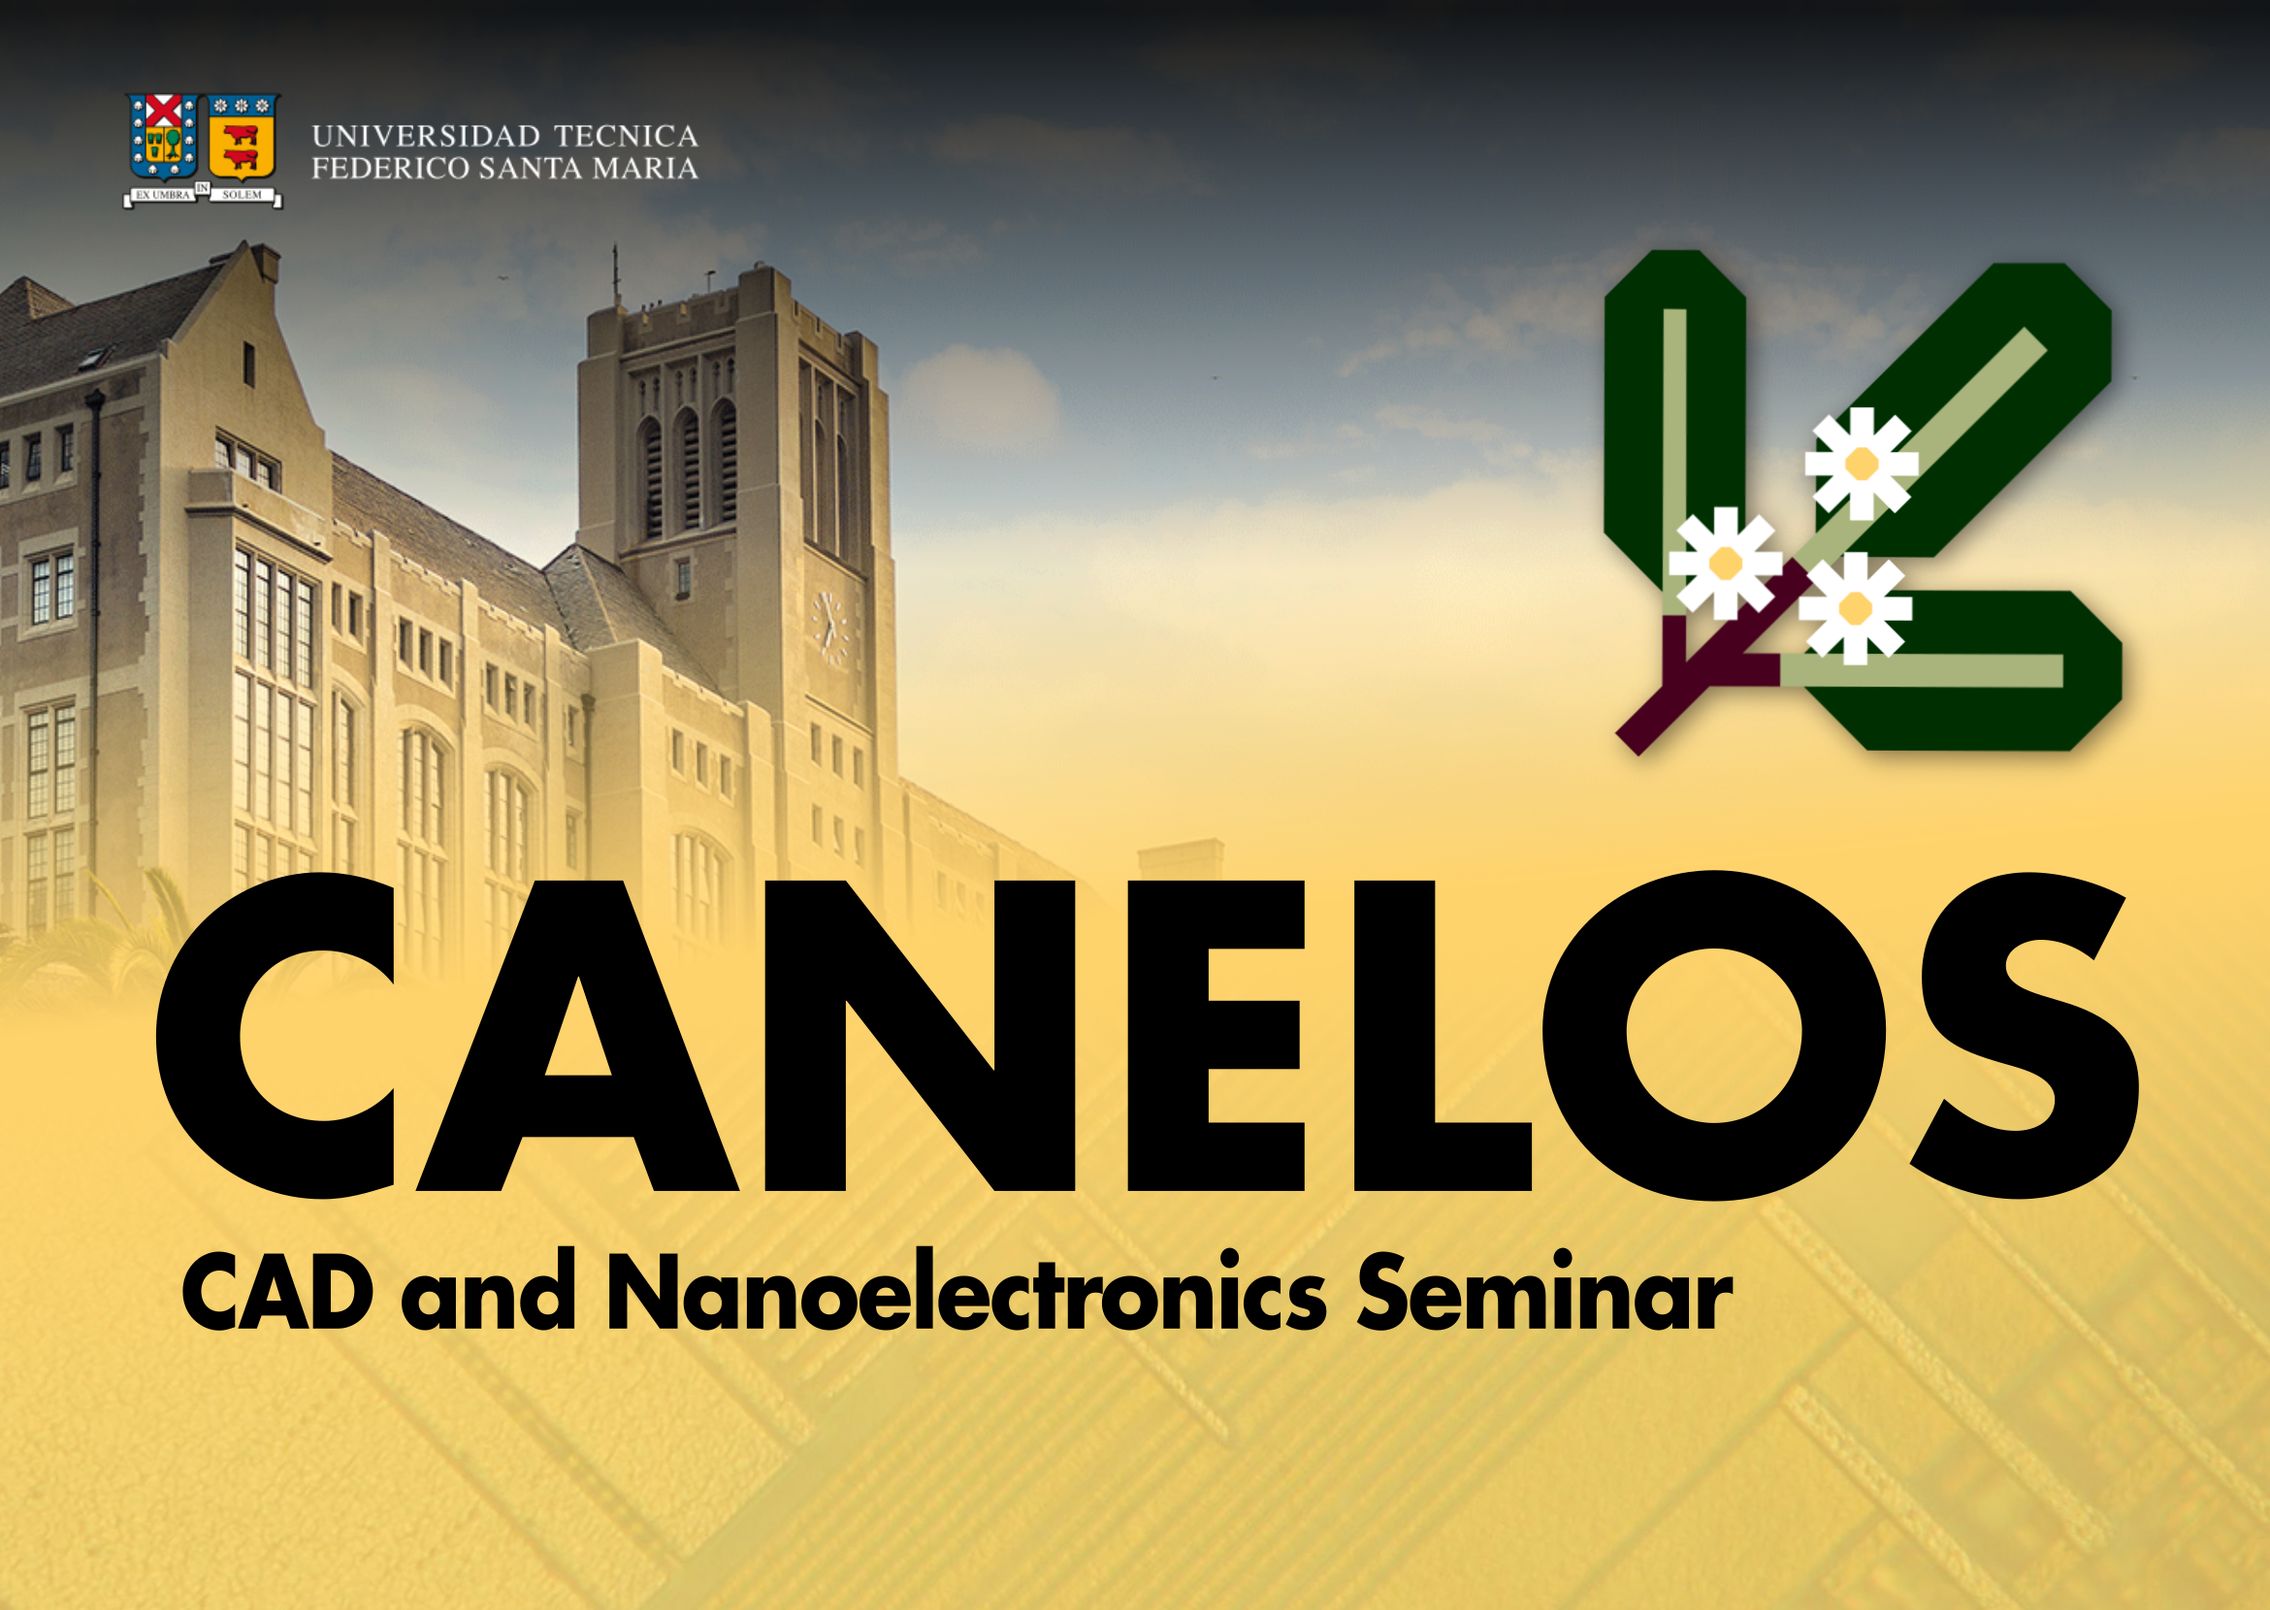
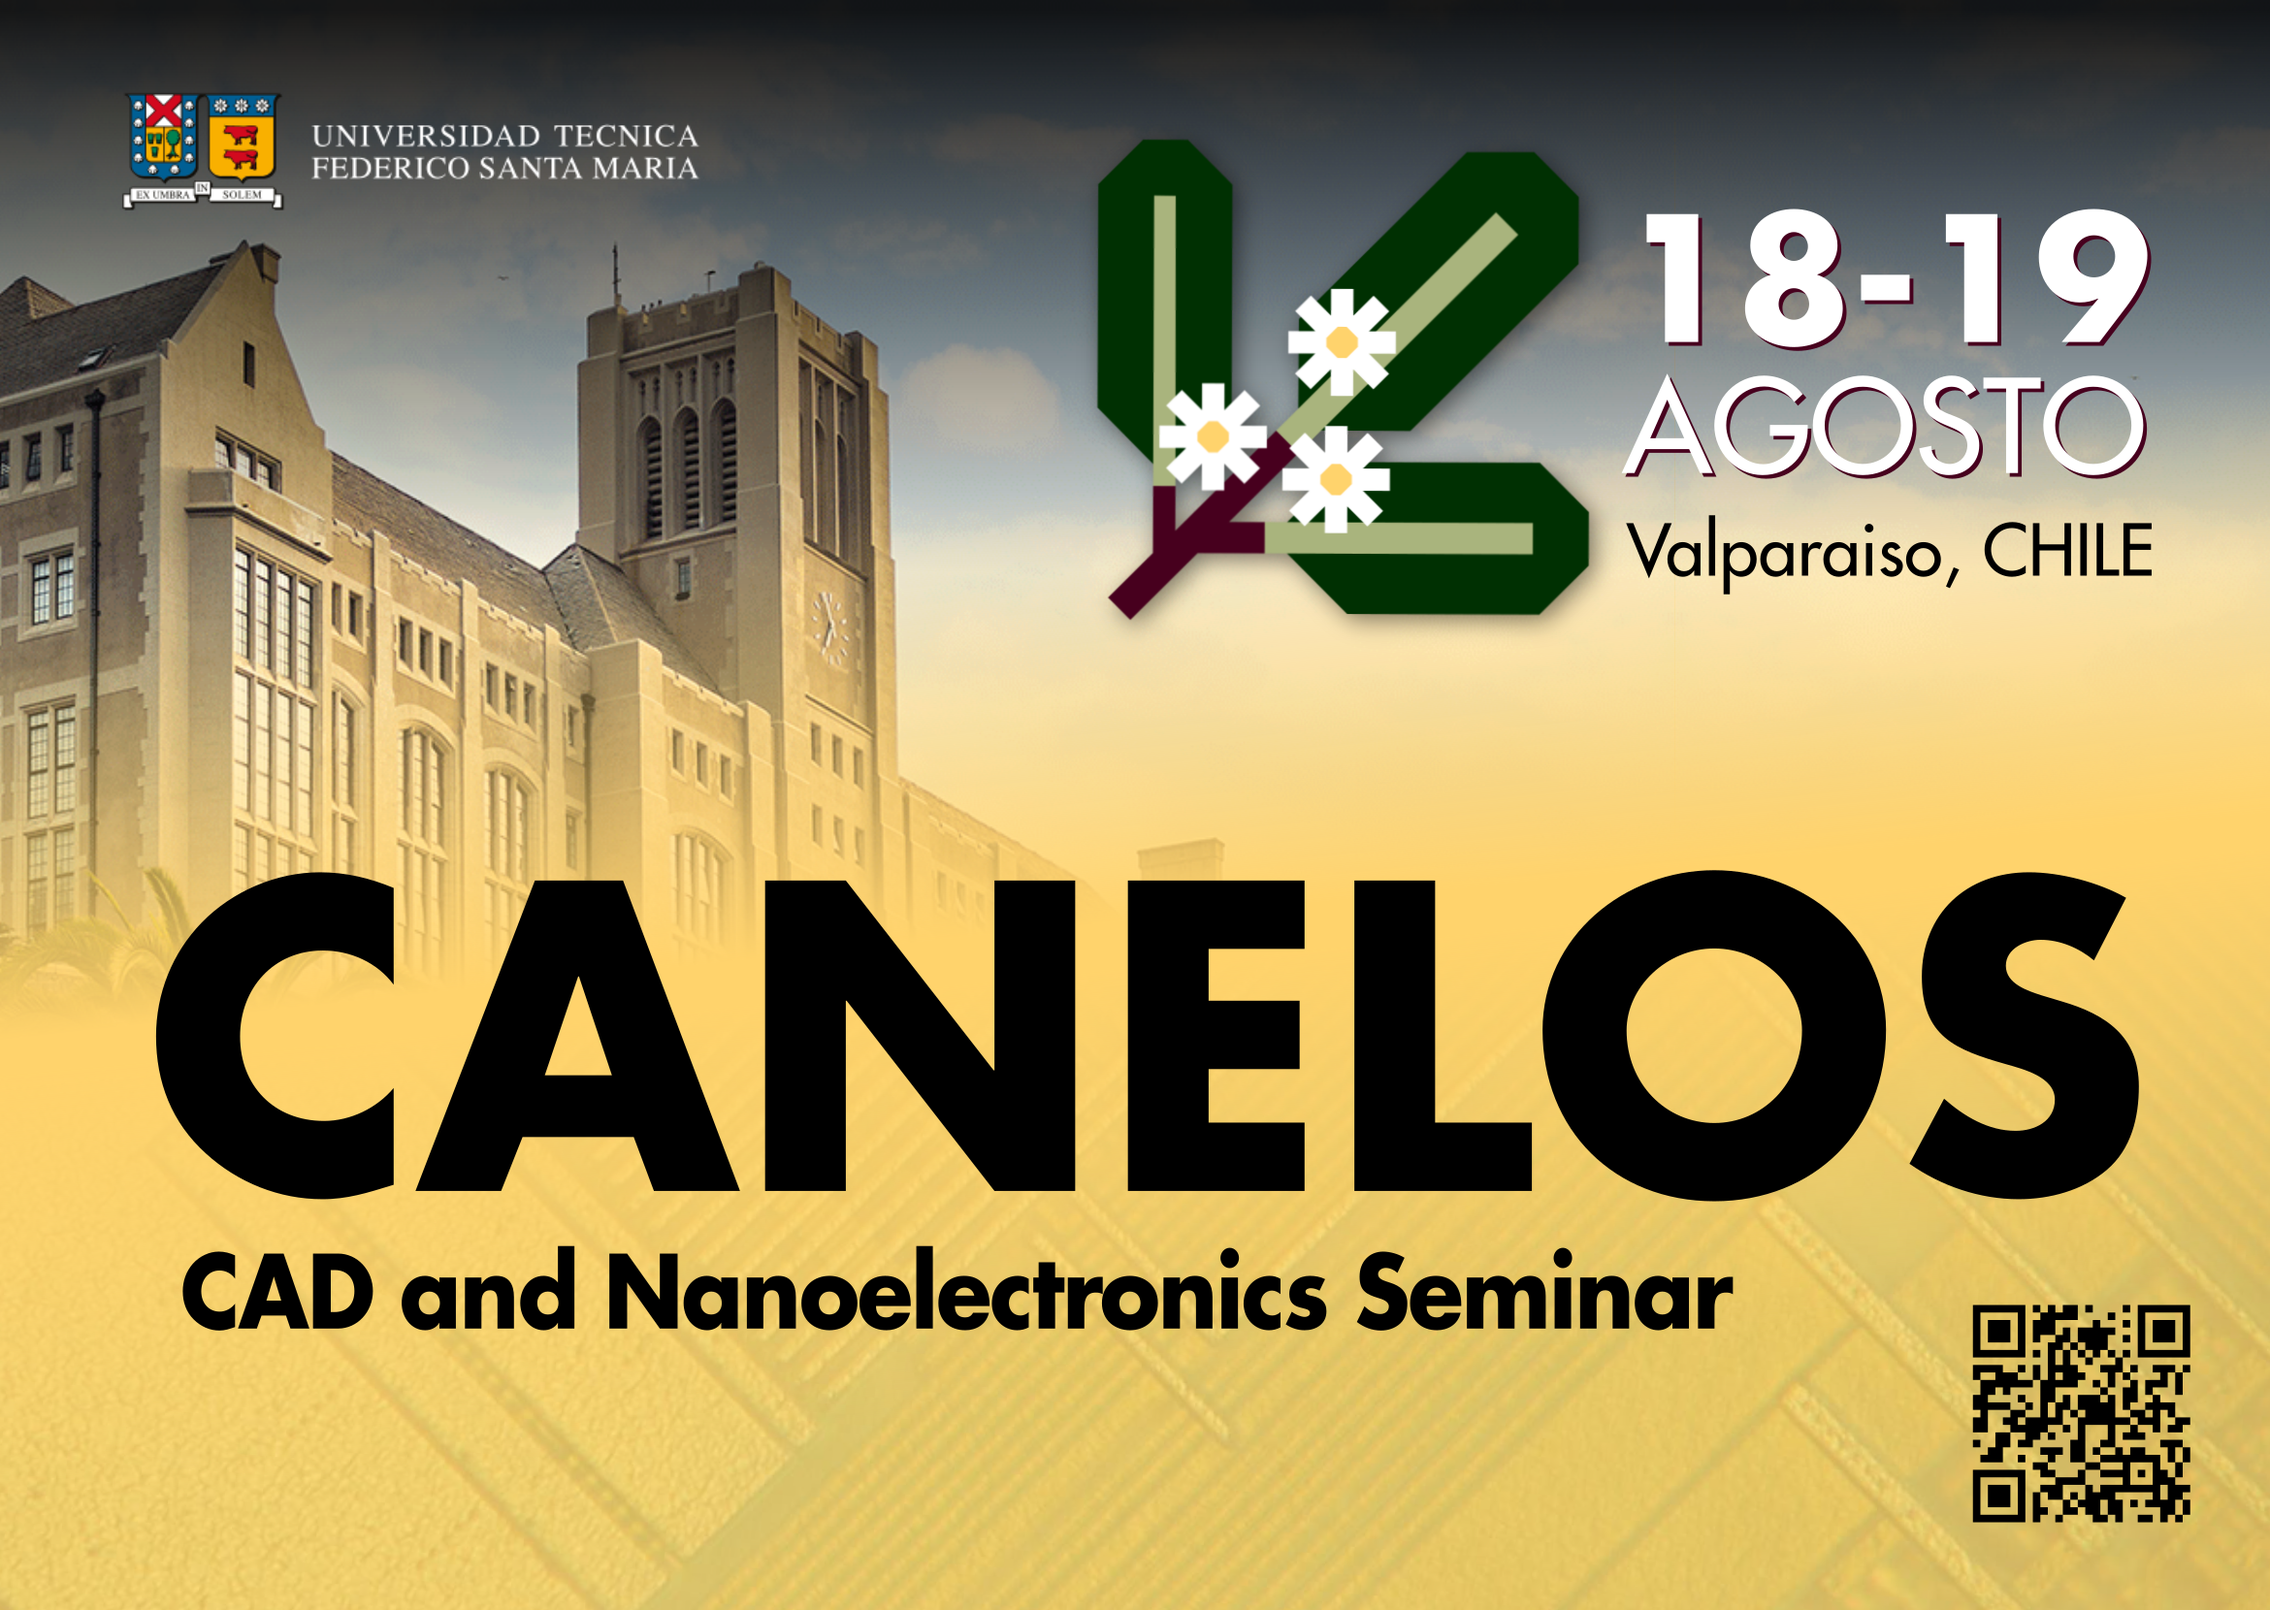
Updated flyer and email

Changed region(s): [[0.4679, 0.0614, 0.9671, 0.4916], [0.8423, 0.7988, 0.9671, 0.9524]]

diff --git a/index.md b/index.md
@@ -7,7 +7,7 @@ layout: home
 	
 <h2 class="home-subtitle">Se viene la edición 2025 del mayor evento de microelectrónica y diseño de circuitos integrados de Chile.</h2>
 
-<h3 class="home-subtitle" style="color: #47001e">¡Próximamente!</h3>
+<h3 class="home-subtitle" style="color: #47001e">¡Te esperamos el 18 y 19 de Agosto!</h3>
 <!--
 <h2 class="home-subtitle">No te pierdas el evento más importante de microelectrónica y diseño de circuitos integrados de Chile.</h2>
 
